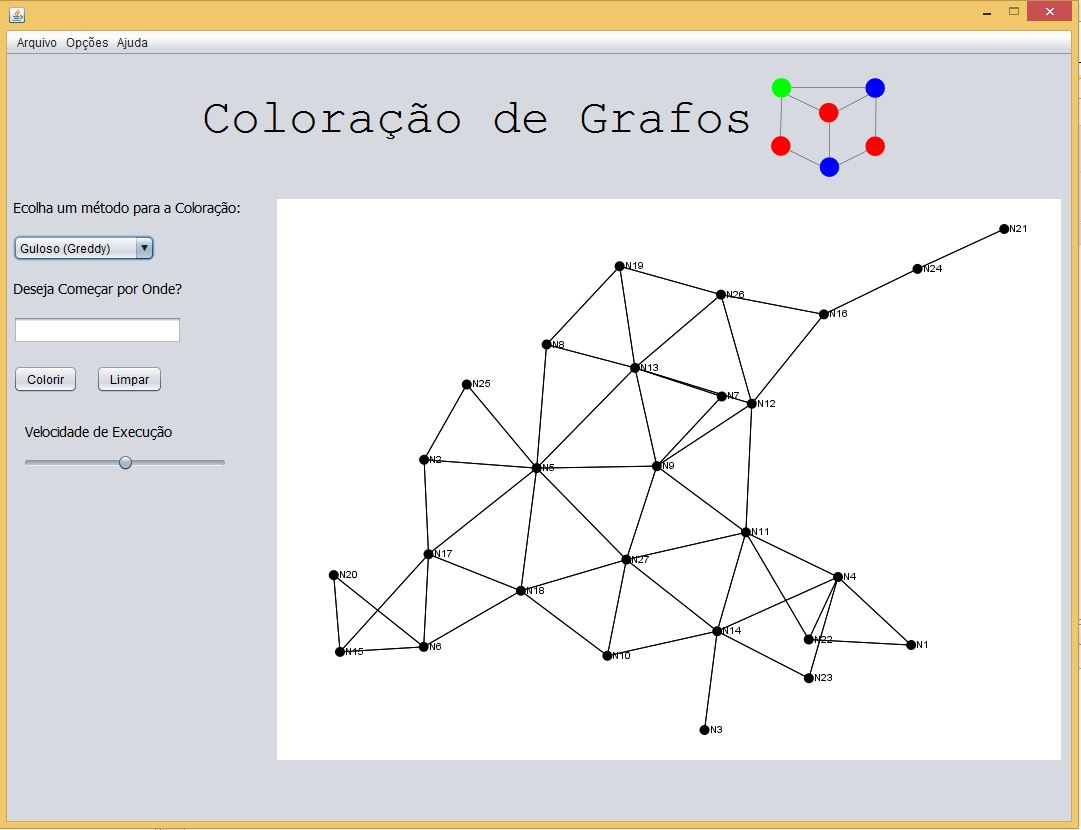
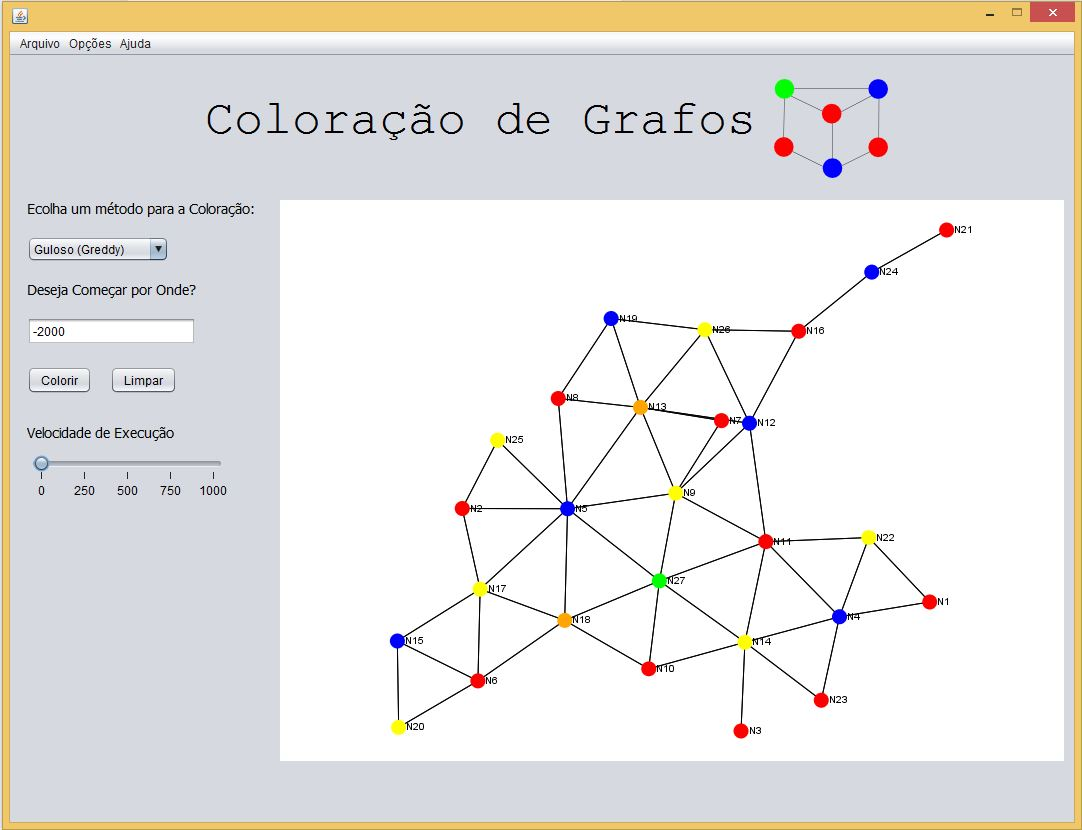
Novas Features

diff --git a/src/screen/TelaPrincipal.java b/src/screen/TelaPrincipal.java
@@ -173,6 +173,16 @@ public class TelaPrincipal extends javax.swing.JFrame {
         jLabel4.setFont(new java.awt.Font("Tahoma", 0, 14)); // NOI18N
         jLabel4.setText("Deseja Começar por Onde?");
 
+        jSlider1.setMajorTickSpacing(250);
+        jSlider1.setMaximum(1000);
+        jSlider1.setPaintLabels(true);
+        jSlider1.setPaintTicks(true);
+        jSlider1.addChangeListener(new javax.swing.event.ChangeListener() {
+            public void stateChanged(javax.swing.event.ChangeEvent evt) {
+                jSlider1StateChanged(evt);
+            }
+        });
+
         jLabel3.setFont(new java.awt.Font("Tahoma", 0, 14)); // NOI18N
         jLabel3.setText("Velocidade de Execução");
 
@@ -242,7 +252,7 @@ public class TelaPrincipal extends javax.swing.JFrame {
         layout.setHorizontalGroup(
             layout.createParallelGroup(javax.swing.GroupLayout.Alignment.LEADING)
             .addGroup(layout.createSequentialGroup()
-                .addContainerGap()
+                .addGap(17, 17, 17)
                 .addGroup(layout.createParallelGroup(javax.swing.GroupLayout.Alignment.LEADING)
                     .addComponent(jLabel2)
                     .addComponent(jComboBox1, javax.swing.GroupLayout.PREFERRED_SIZE, javax.swing.GroupLayout.DEFAULT_SIZE, javax.swing.GroupLayout.PREFERRED_SIZE)
@@ -252,7 +262,7 @@ public class TelaPrincipal extends javax.swing.JFrame {
                         .addGap(18, 18, 18)
                         .addComponent(jButton2))
                     .addGroup(layout.createSequentialGroup()
-                        .addGap(12, 12, 12)
+                        .addGap(0, 0, 0)
                         .addGroup(layout.createParallelGroup(javax.swing.GroupLayout.Alignment.LEADING)
                             .addComponent(jLabel3)
                             .addComponent(jSlider1, javax.swing.GroupLayout.PREFERRED_SIZE, javax.swing.GroupLayout.DEFAULT_SIZE, javax.swing.GroupLayout.PREFERRED_SIZE)))
@@ -401,6 +411,11 @@ public class TelaPrincipal extends javax.swing.JFrame {
     private void formWindowGainedFocus(java.awt.event.WindowEvent evt) {//GEN-FIRST:event_formWindowGainedFocus
 
     }//GEN-LAST:event_formWindowGainedFocus
+
+    private void jSlider1StateChanged(javax.swing.event.ChangeEvent evt) {//GEN-FIRST:event_jSlider1StateChanged
+        int tempo = jSlider1.getValue();
+        g.setTime(Long.parseLong(""+tempo));
+    }//GEN-LAST:event_jSlider1StateChanged
 
     /**
      * @param args the command line arguments
